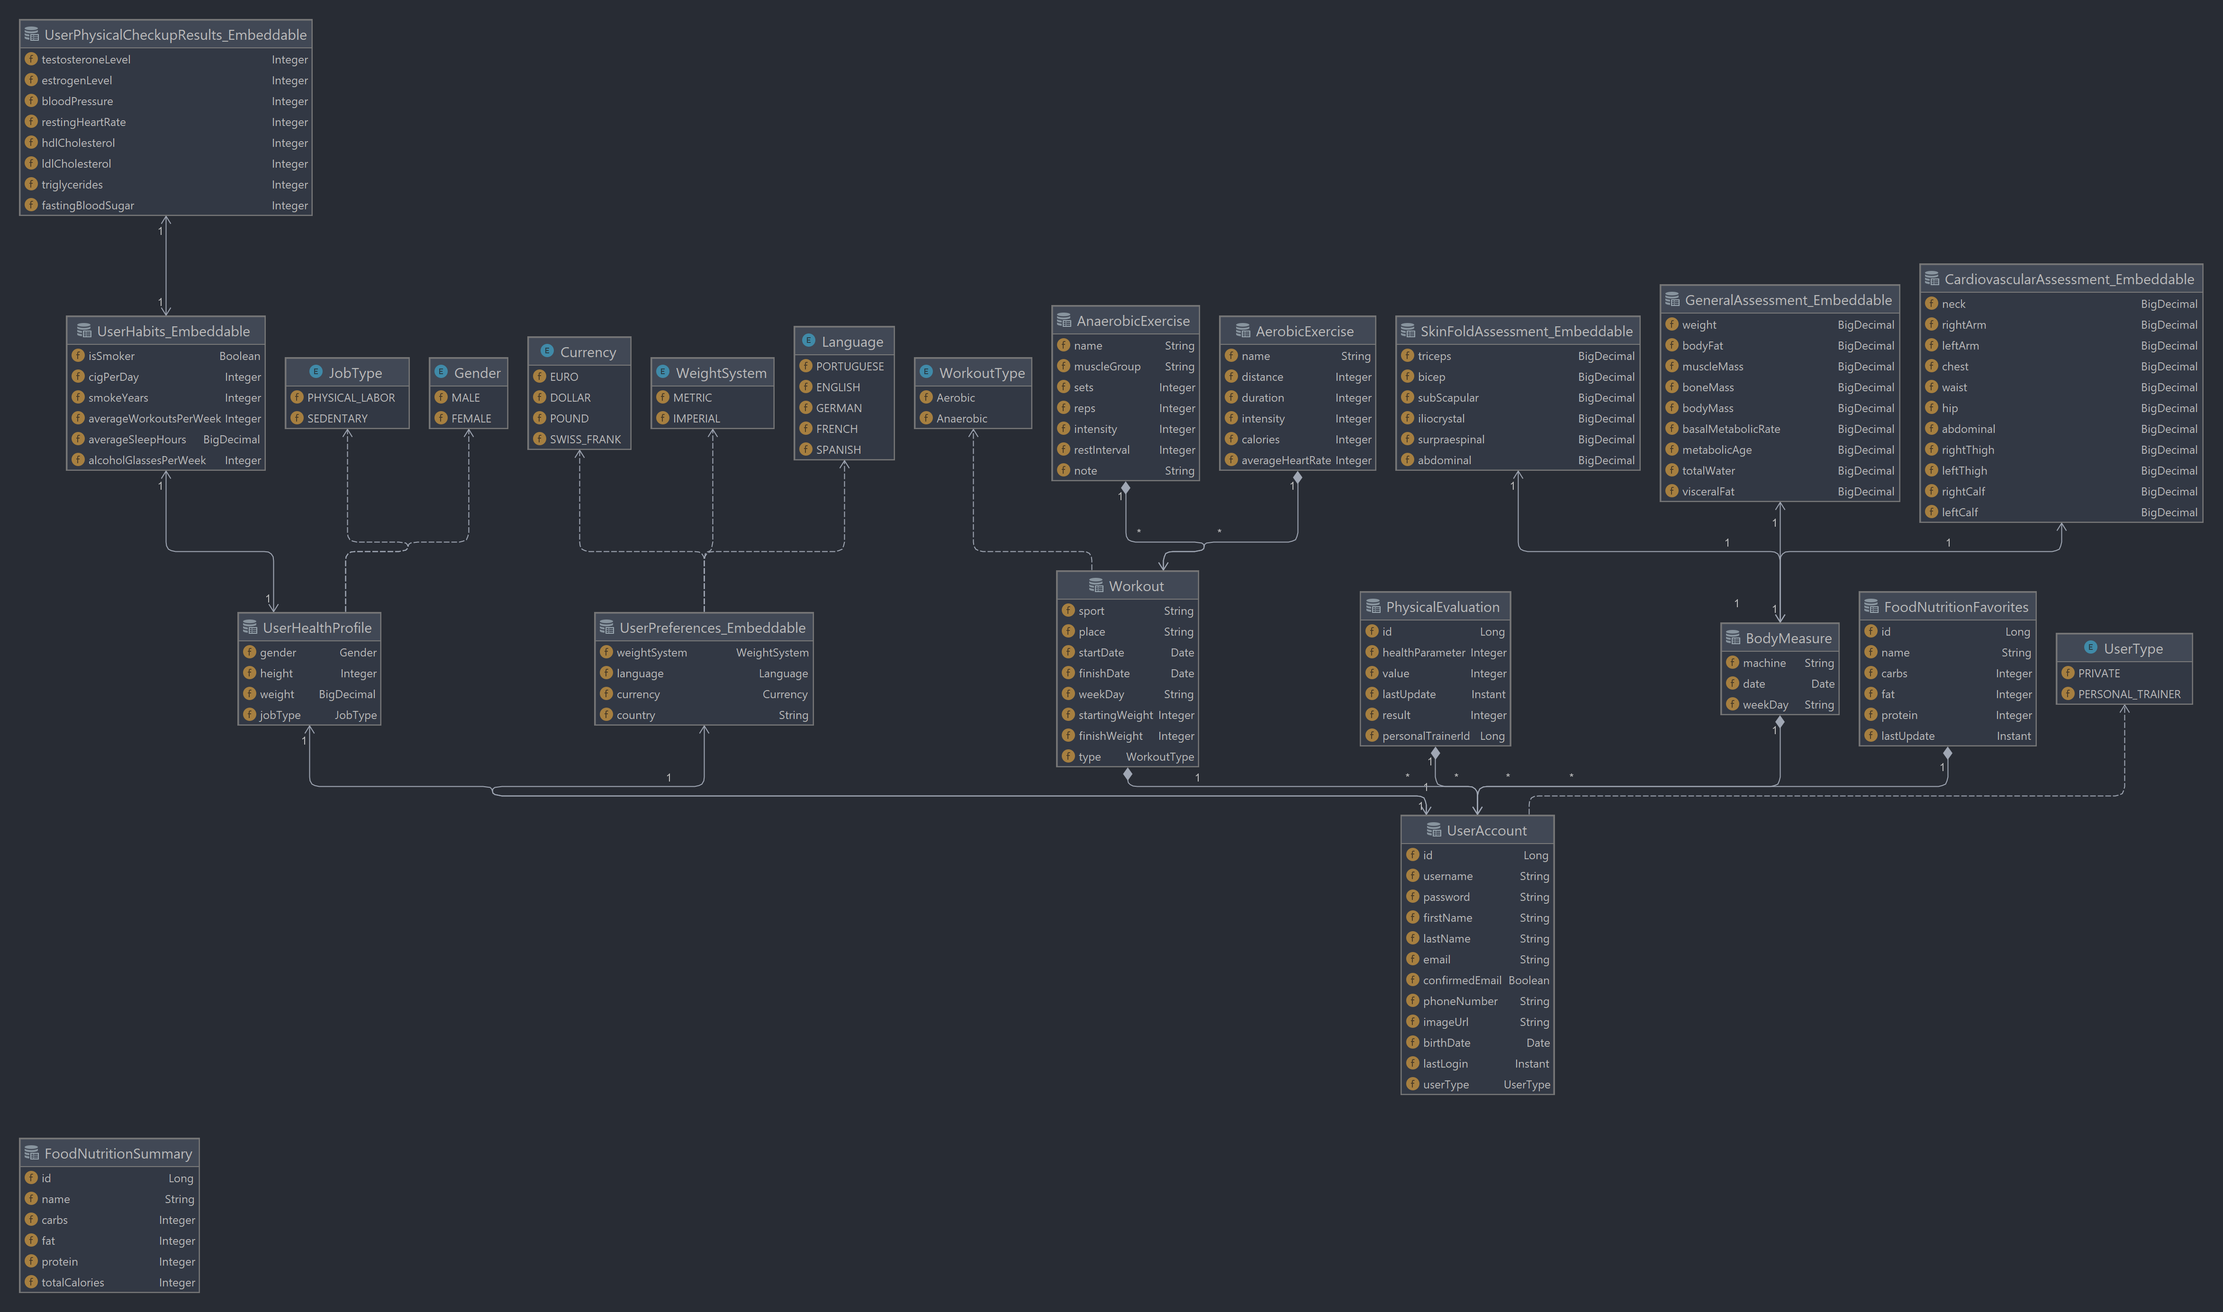
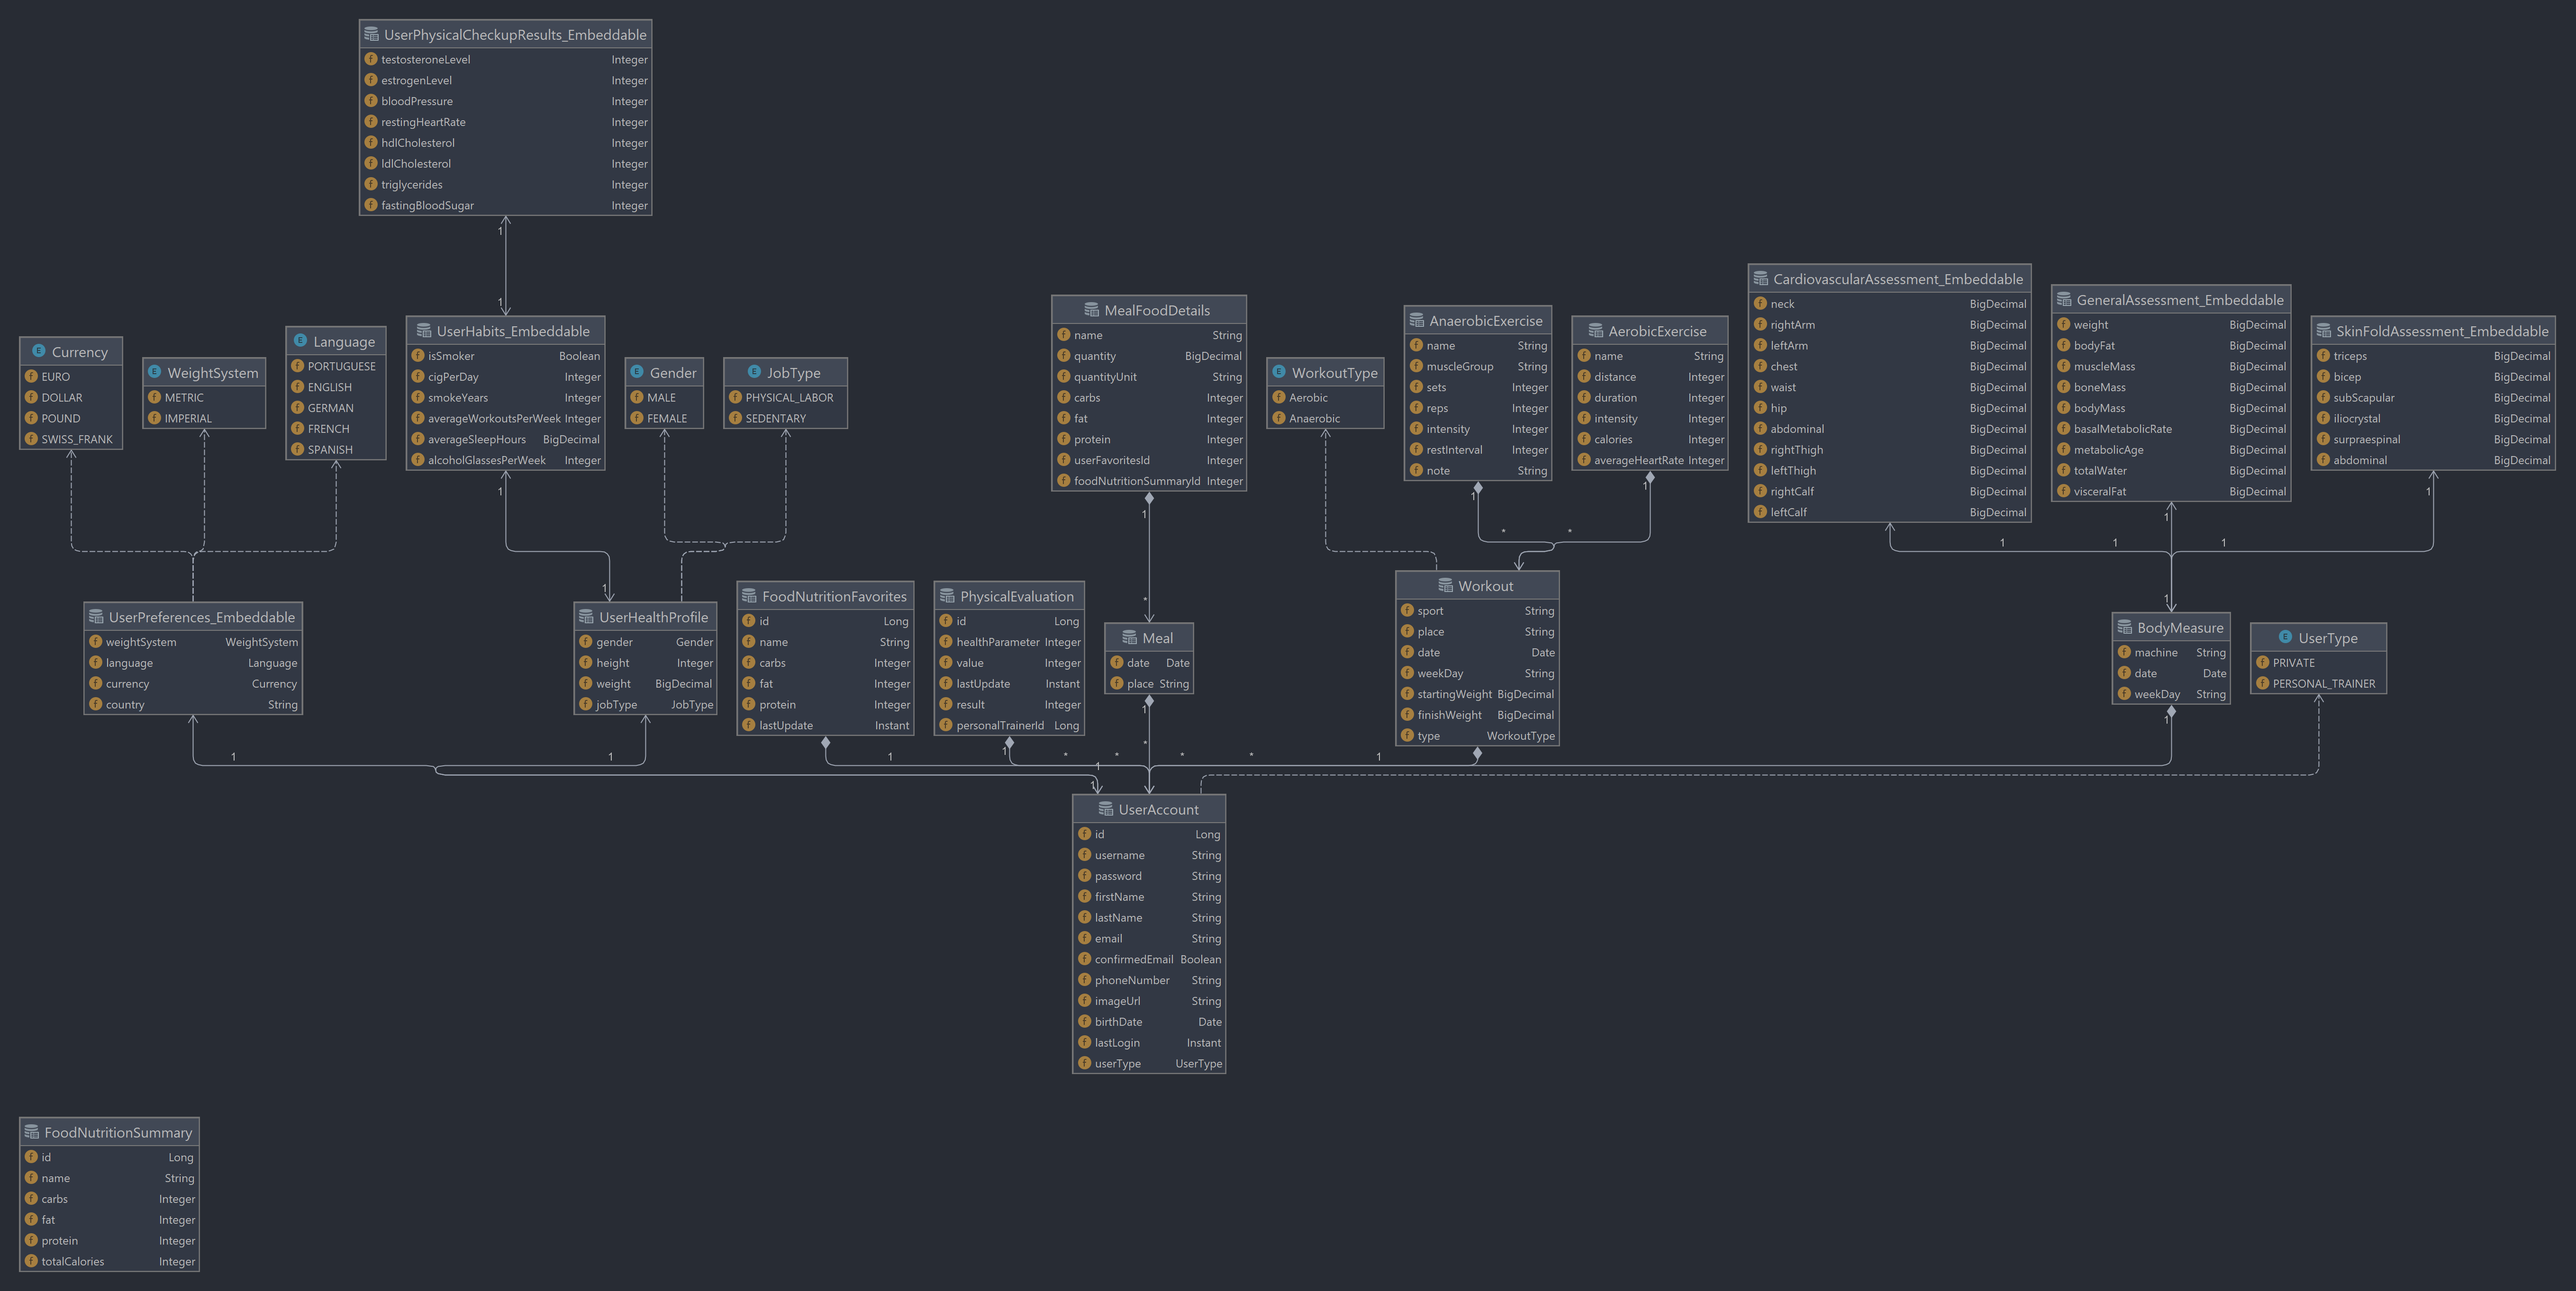
added meals entities, change weight to BigDecimal

diff --git a/src/main/java/com/myhealth/healthmanagermain/domain/Meal.java b/src/main/java/com/myhealth/healthmanagermain/domain/Meal.java
@@ -1,16 +1,11 @@
 package com.myhealth.healthmanagermain.domain;
 
 import com.fasterxml.jackson.annotation.JsonIgnore;
-import com.myhealth.healthmanagermain.domain.enums.WorkoutType;
-import java.math.BigDecimal;
-import java.time.DayOfWeek;
 import java.util.Calendar;
 import java.util.Set;
-import javax.annotation.Nullable;
 import javax.persistence.Column;
 import javax.persistence.Entity;
-import javax.persistence.EnumType;
-import javax.persistence.Enumerated;
+import javax.persistence.FetchType;
 import javax.persistence.GeneratedValue;
 import javax.persistence.GenerationType;
 import javax.persistence.Id;
@@ -37,8 +32,8 @@ import lombok.ToString.Exclude;
 @NoArgsConstructor
 @AllArgsConstructor
 @Entity
-@Table(name = "workout")
-public class Workout {
+@Table(name = "meal")
+public class Meal {
 
   @Id
   @GeneratedValue(strategy = GenerationType.IDENTITY)
@@ -49,26 +44,10 @@ public class Workout {
   @Column(name = "place", nullable = false)
   private String place;
 
-  @Enumerated(EnumType.STRING)
-  @Column(name = "type", nullable = false)
-  private WorkoutType type;
-
   @NotNull
   @Column(name = "date")
   @Temporal(TemporalType.DATE)
   private Calendar date;
-
-  @Nullable
-  @Column(name = "starting_weight")
-  private BigDecimal startingWeight;
-
-  @Nullable
-  @Column(name = "finish_weight")
-  private BigDecimal finishWeight;
-
-  @Enumerated(EnumType.STRING)
-  @Column(name = "week_day", nullable = false)
-  private DayOfWeek weekDay;
 
   @ManyToOne(optional = false)
   @JoinColumn(name = "user_id")
@@ -77,13 +56,7 @@ public class Workout {
   @ToString.Exclude
   private UserAccount user;
 
-  @OneToMany(mappedBy = "workout")
+  @OneToMany(fetch = FetchType.EAGER, mappedBy = "meal")
   @Exclude
-  private Set<AerobicExercise> aerobicExercises;
-
-  @OneToMany(mappedBy = "workout")
-  @Exclude
-  private Set<AnaerobicExercise> anaerobicExercises;
+  private Set<MealFoodDetails> mealFoodDetails;
 }
-
-

diff --git a/src/main/java/com/myhealth/healthmanagermain/domain/MealFoodDetails.java b/src/main/java/com/myhealth/healthmanagermain/domain/MealFoodDetails.java
@@ -1,0 +1,68 @@
+package com.myhealth.healthmanagermain.domain;
+
+import com.fasterxml.jackson.annotation.JsonIgnore;
+import java.math.BigDecimal;
+import javax.annotation.Nullable;
+import javax.persistence.Column;
+import javax.persistence.Entity;
+import javax.persistence.GeneratedValue;
+import javax.persistence.GenerationType;
+import javax.persistence.Id;
+import javax.persistence.JoinColumn;
+import javax.persistence.ManyToOne;
+import javax.persistence.Table;
+import javax.validation.constraints.NotNull;
+import javax.validation.constraints.Size;
+import lombok.AllArgsConstructor;
+import lombok.Builder;
+import lombok.Getter;
+import lombok.NoArgsConstructor;
+import lombok.Setter;
+import lombok.ToString;
+
+@ToString
+@Setter
+@Getter
+@Builder
+@NoArgsConstructor
+@AllArgsConstructor
+@Entity
+@Table(name = "meal_food_details")
+public class MealFoodDetails {
+
+  @Id
+  @GeneratedValue(strategy = GenerationType.IDENTITY)
+  private Long id;
+
+  @NotNull
+  @Size(min = 3, max = 100)
+  @Column(name = "name", nullable = false)
+  private String name;
+
+  @Nullable
+  @Column(name = "quantity")
+  private BigDecimal quantity;
+
+  @Nullable
+  @Column(name = "quantity_unit")
+  private String quantityUnit;
+
+  @Nullable
+  @Column(name = "carbs")
+  private Integer carbs;
+
+  @Nullable
+  @Column(name = "fats")
+  private Integer fats;
+
+  @Nullable
+  @Column(name = "proteins")
+  private BigDecimal proteins;
+
+  @ManyToOne(optional = false)
+  @JoinColumn(name = "meal_id")
+  @NotNull
+  @JsonIgnore
+  @ToString.Exclude
+  private Meal meal;
+}

diff --git a/src/main/java/com/myhealth/healthmanagermain/domain/UserAccount.java b/src/main/java/com/myhealth/healthmanagermain/domain/UserAccount.java
@@ -117,6 +117,11 @@ public class UserAccount implements Serializable {
   @Exclude
   private Set<BodyMeasure> bodyMeasures;
 
+  @OneToMany(mappedBy = "user")
+  @JsonIgnore
+  @Exclude
+  private Set<Meal> meals;
+
   @JsonIgnore
   @ManyToMany
   @JoinTable(
